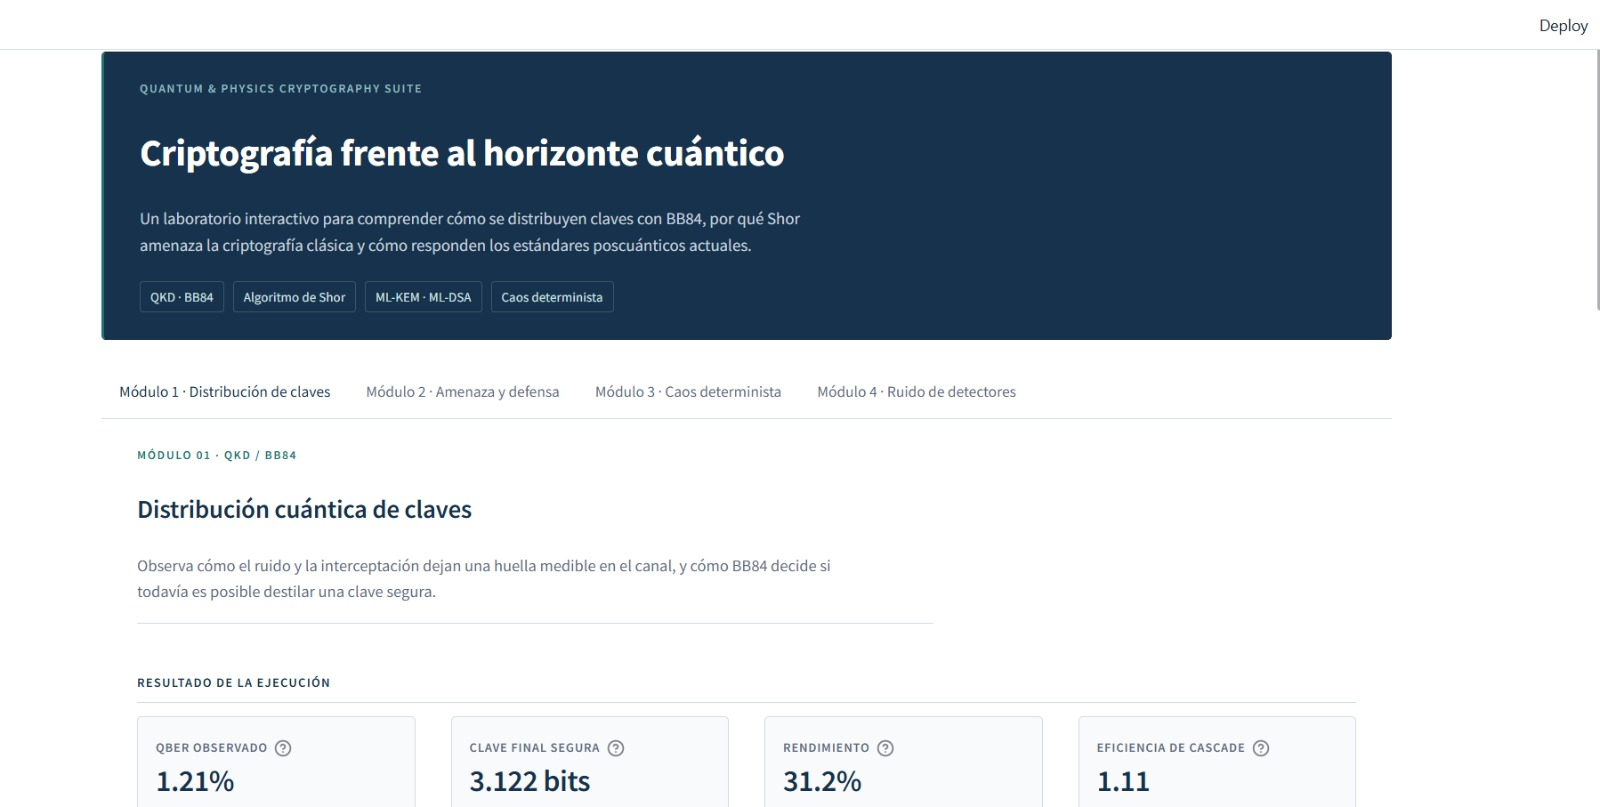
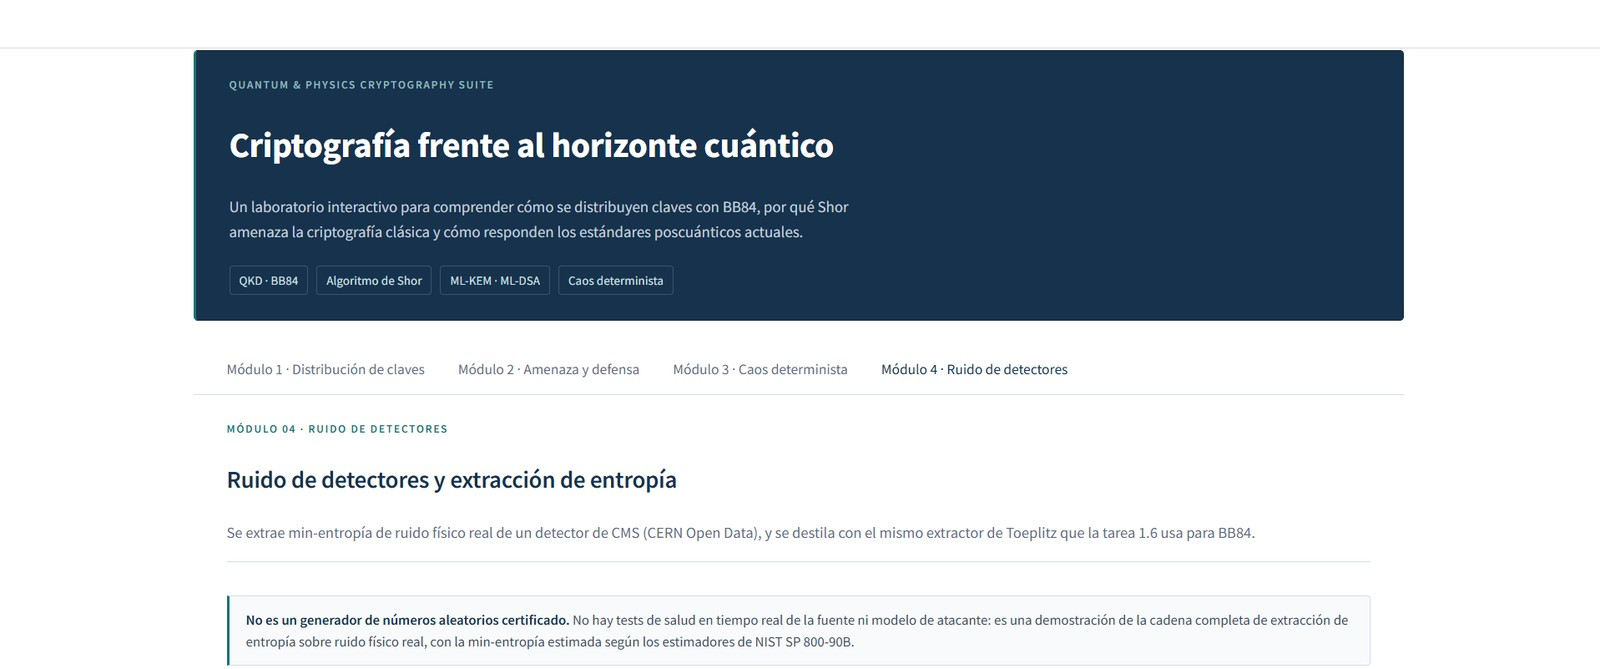
docs: arranque con imagen publicada, reparto real y guia de instalacion
README.md:
- Arranque rapido reescrito: el paso 3 pasa de `docker build` (10-17 min
  compilando liboqs) a `docker run ghcr.io/cmartinezmeco/qpcs:main`
  (segundos, tirando de la imagen que publica la CI en cada push a
  main). Las instrucciones de construir en local quedan en un
  subapartado "Si prefieres construirla tu", para quien quiera probar
  un cambio propio.
- Badge de licencia anadido, enlazado a LICENSE.
- Seccion "Contribuir" renombrada a "Como participar" y reescrita: dice
  con claridad que es un proyecto academico cerrado de tres personas,
  que no se buscan colaboradores externos, que las issues si se
  agradecen, y que los fallos de seguridad van por SECURITY.md y no por
  una issue publica.
- Tabla de reparto: fuera la columna de commits (un commit cuenta
  cuantas veces alguien guardo, no cuanto hizo, y queda obsoleta con el
  commit siguiente). Queda solo la columna de responsabilidad, con los
  tres nombres completos y su alias de GitHub al lado, y el comando
  `git shortlog -sn --no-merges` para quien quiera los numeros
  actualizados.
- Bloque de estructura actualizado: lista LICENSE, SECURITY.md y
  .mailmap, que antes no aparecian.

docs/INSTALL.md:
- Tras `docker compose up`, aviso en negrita de que hay que abrir
  localhost:8501 (no la URL 0.0.0.0:8501 que imprime Streamlit, que es
  la de dentro del contenedor) y captura del panel (docs/img/index.jpg).
- Añadido `docker compose down` para parar el servicio.
[…]

diff --git a/README.md b/README.md
@@ -8,6 +8,7 @@ Cuatro módulos de criptografía —cuántica, post-cuántica, caótica y entrop
 [![liboqs](https://img.shields.io/badge/liboqs-0.16.0-00A3E0)](https://openquantumsafe.org/)
 [![Tests](https://img.shields.io/badge/tests-378-0A9EDC?logo=pytest&logoColor=white)](tests/)
 [![Cobertura](https://img.shields.io/badge/cobertura-%E2%89%A585%25-brightgreen)](.github/workflows/ci.yml)
+[![Licencia](https://img.shields.io/badge/licencia-Apache%202.0-blue)](LICENSE)
 
 ![QBER frente a la fracción de fotones interceptados por Eve](docs/img/qber_vs_eve.png)
 
@@ -59,18 +60,36 @@ levantarla, están sin recortar en [`docs/limitaciones.md`](docs/limitaciones.md
 compilar `liboqs`, ni instalar nada más.
 
 ```bash
+docker run --rm -p 8501:8501 ghcr.io/cmartinezmeco/qpcs:main
+```
+
+Esa imagen la construye y publica la CI cada vez que algo entra en `main`, así que trae
+`liboqs` ya compilado. La descarga son unos cientos de megas y menos de un minuto.
+
+Cuando Streamlit imprima la línea `URL: http://0.0.0.0:8501`, abre
+[http://localhost:8501](http://localhost:8501). El panel tiene una pestaña por módulo.
+
+### Visualización
+
+La vista de la página, si se ha ejecutado correctamente, es la siguiente:
+
+![Vista del dashboard de QPCS](docs/img/index.jpg)
+
+### Si prefieres construirla tú
+
+Vale igual, y es lo que hay que hacer para probar un cambio propio:
+
+```bash
 git clone https://github.com/cmartinezmeco/qpcs.git
 cd qpcs
 docker build -t qpcs .
 docker run --rm -it -p 8501:8501 qpcs
 ```
 
-> La tercera orden **tarda entre 10 y 17 minutos la primera vez**: compila `liboqs` desde
+> `docker build` **tarda entre 10 y 17 minutos la primera vez**: compila `liboqs` desde
 > código fuente, que es una biblioteca en C sin *wheel*. No se ha colgado. Las siguientes
-> reconstrucciones reutilizan las capas y tardan segundos.
-
-Cuando Streamlit imprima la línea `URL: http://0.0.0.0:8501`, abre
-[http://localhost:8501](http://localhost:8501). El panel tiene una pestaña por módulo.
+> reconstrucciones reutilizan las capas y tardan segundos. Esa espera es justo la que se
+> ahorra quien usa la imagen publicada.
 
 Con Docker Compose, tres servicios sobre la misma imagen:
 
@@ -115,9 +134,14 @@ La mitad de la amenaza y la mitad de la defensa, en el mismo módulo. Shor facto
 estimación de fase: las fases medidas caen exactamente sobre los cuatro múltiplos de 1/r con
 r = 4, el orden real de 7 módulo 15.
 
-La defensa no es una simulación. ML-KEM-768 y ML-DSA-65 corren sobre `liboqs`, la misma
-implementación que se usa en producción, y cifran un mensaje real con el patrón híbrido
-KEM → HKDF-SHA256 → AES-256-GCM. El resumen de la migración en dos cifras:
+La defensa no es una simulación. ML-KEM-768 y ML-DSA-65 corren sobre `liboqs`, la
+implementación de referencia del Open Quantum Safe Project —no una reimplementación
+nuestra—, y cifran un mensaje real con el patrón híbrido KEM → HKDF-SHA256 → AES-256-GCM.
+Conviene decir lo que el propio proyecto advierte: `liboqs` está pensado para prototipado
+y evaluación y sus autores desaconsejan usarlo en producción. Aquí se usa exactamente para
+eso, y por eso la cifra de abajo es una medida y no una promesa.
+
+El resumen de la migración en dos cifras:
 
 - ML-KEM-768 genera un par de claves unas **11 000 veces más rápido** que RSA-3072
   (0,019 ms contra 212 ms) y desencapsula unas **120 veces más rápido** de lo que RSA descifra.
@@ -174,14 +198,17 @@ qpcs/
 ├── dashboard/          Panel de Streamlit, una pestaña por módulo
 ├── docs/
 │   ├── theory/         Los cuatro documentos de teoría
-│   ├── img/            Las 17 figuras publicadas
+│   ├── img/            Las 17 figuras publicadas y la captura del panel
 │   ├── limitaciones.md Las 28 limitaciones, con su porqué
-│   ├── decisiones.md   Lo que sigue abierto, con opciones y estado
+│   ├── decisiones.md   Las decisiones del proyecto, con sus opciones y lo acordado
 │   └── benchmark_pqc.json
 ├── data/               La muestra del detector y su procedencia
 ├── vectors/            keystream_v1.json · el vector de determinismo del Módulo 3
 ├── Dockerfile          El entorno reproducible (compila liboqs)
-└── docker-compose.yml  app · test · figuras
+├── docker-compose.yml  app · test · figuras
+├── .mailmap            Las identidades de git unificadas en tres personas
+├── LICENSE             Apache 2.0
+└── SECURITY.md         Dónde avisar de un fallo, y qué NO protege esto
 ```
 
 ---
@@ -230,24 +257,50 @@ la regla que la CI comprueba en cada *pull request*.
 
 ## Reparto y licencia
 
-Tres personas, medido sobre `main` con `git shortlog -sn --no-merges`, consolidando las dos
-identidades de git que usa cada uno:
+Tres personas. Lo que llevó cada una:
 
-| | Commits | Responsabilidad |
-|---|---:|---|
-| **Carlos Martínez-Meco López** ([@cmartinezmeco](https://github.com/cmartinezmeco)) | 31 | Infraestructura, CI, contenedores, datos, benchmarking, visualización e integración |
-| **Marco** ([@Marcociber](https://github.com/Marcociber)) | 16 | Reconciliación de claves, criptografía post-cuántica, análisis de entropía y seguridad |
-| **Gonzalo** ([@gonzaloz-hub](https://github.com/gonzaloz-hub)) | 10 | Física y modelado teórico: BB84, Shor, sistemas caóticos, ruido de detector |
+| | Responsabilidad |
+|---|---|
+| **Carlos Martínez-Meco López** ([@cmartinezmeco](https://github.com/cmartinezmeco)) | Infraestructura, CI, contenedores, datos, benchmarking, visualización e integración |
+| **Marco López Ballestrino** ([@Marcociber](https://github.com/Marcociber)) | Reconciliación de claves, criptografía post-cuántica, análisis de entropía y seguridad |
+| **Gonzalo Zaballos Galán** ([@gonzaloz-hub](https://github.com/gonzaloz-hub)) | Física y modelado teórico: BB84, Shor, sistemas caóticos, ruido de detector |
 
-Un commit no es una unidad de trabajo y `git log` no mide autoría de líneas. La medida completa,
-con sus advertencias, está en [`docs/decisiones.md`](docs/decisiones.md).
+Aquí había una columna con el número de *commits* de cada uno y ya no está. El motivo es que
+no medía lo que parecía medir: un *commit* cuenta cuántas veces alguien guardó, no cuánto
+hizo, y además cualquier cifra de esas caduca con el *commit* siguiente —incluido el que la
+corrigiera—. La columna de la derecha es la información útil, y esa no se queda vieja.
 
-**Licencia: pendiente.** Sin fichero `LICENSE`, por defecto nadie puede usar, copiar ni
-distribuir este código. La elección está abierta y documentada; se cierra en la tarea 4.17.
+Quien quiera los números los tiene a mano, y son más fiables recién sacados que copiados aquí:
+
+```bash
+git shortlog -sn --no-merges
+```
+
+El `.mailmap` de la raíz se encarga de que salgan tres personas y no las seis identidades de
+git que hemos ido usando entre el portátil, la web de GitHub y alguna máquina prestada.
+
+**Licencia: [Apache 2.0](LICENSE).** Puedes usar, copiar, modificar y redistribuir el código,
+también con fines comerciales, manteniendo el aviso de copyright y la nota de los cambios. Se
+eligió sobre MIT por la cláusula explícita de patentes, que en un repositorio de criptografía
+pesa más que en otros campos. Para citarlo, [`CITATION.cff`](CITATION.cff).
 
 ---
 
-## Contribuir
+## Cómo participar
+
+Este es un proyecto académico cerrado, de tres personas, y el código lo escribimos nosotros.
+No buscamos colaboradores externos, y eso no es desinterés: es que el reparto de autoría
+forma parte de lo que se evalúa.
+
+**Lo que sí agradecemos, y mucho, son las *issues*.** Si encuentras un error, una cifra que no
+cuadra, una explicación que se entiende mal o algo del arranque rápido que no funciona en tu
+máquina, [ábrela](https://github.com/cmartinezmeco/qpcs/issues). Es la forma más útil de
+echar una mano y se lee toda.
+
+Si has encontrado un fallo de seguridad, no lo pongas en una *issue*: mira
+[`SECURITY.md`](SECURITY.md), que explica por dónde avisar en privado.
+
+### Para nosotros tres
 
 Nunca se trabaja directamente sobre `main`. Una rama por tarea, un *pull request* por rama, y
 al menos una aprobación de otra persona antes de mergear. La CI tiene que estar en verde: no

diff --git a/docs/INSTALL.md b/docs/INSTALL.md
@@ -104,8 +104,14 @@ source ~/.bashrc
 ## Paso 7 — VS Code
 
 Abre el proyecto desde WSL con `code .` e instala **Python** y **Pylance** (Microsoft) como
-mínimo; **Docker**, **Jupyter** y **GitLens** ayudan. El fichero `.vscode/settings.json` está
-versionado y configura Black y el intérprete del `.venv` para todo el equipo.
+mínimo; **Docker**, **Jupyter** y **GitLens** ayudan.
+
+La configuración del editor no va versionada: cada uno usa el suyo y el
+`.vscode/` está en el `.gitignore`. Lo único que conviene apuntar a mano es el intérprete
+(**Python: Select Interpreter** → el `.venv` del proyecto) y el formateador (**Black**, con
+formato al guardar). Las reglas de verdad —longitud de línea, versión de Python, qué revisa
+cada herramienta— viven en `pyproject.toml`, que sí está versionado, así que son las mismas
+para todos con editor o sin él.
 
 ---
 
@@ -113,10 +119,10 @@ versionado y configura Black y el intérprete del `.venv` para todo el equipo.
 
 En el entorno local:
 
-Primero movernos a /qpcs
+Primero hay que situarse en la carpeta del proyecto:
 
 ```bash
-cd ~\qpcs
+cd ~/qpcs
 ```
 
 ```bash
@@ -151,15 +157,58 @@ pytest tests/ -m "not slow"
 
 ## Arrancar el contenedor
 
-### Comando docker para arrancar el contenedor
-
 ```bash
 docker compose up -d --build app
 ```
 
+La primera vez tarda un rato porque compila `liboqs`; las siguientes son segundos. El `-d`
+lo deja corriendo en segundo plano, así que la terminal vuelve enseguida y no hay nada más
+que esperar en ella.
+
+**Ahora abre [http://localhost:8501](http://localhost:8501) en el navegador.** Ahí está el
+panel. Si en vez de `-d` lo arrancas en primer plano, Streamlit imprime una línea
+`URL: http://0.0.0.0:8501`: es la dirección **desde dentro** del contenedor, y desde tu
+navegador no funciona. La buena es siempre `localhost:8501`.
+
+Esto es lo que tiene que salir:
+
+![El panel de QPCS recién arrancado, con la pestaña del Módulo 1 abierta](img/index.jpg)
+
+Una pestaña por módulo, arriba. Si ves esto, el entorno está montado y funcionando.
+
+Para pararlo:
+
+```bash
+docker compose down
+```
+
+Y si el navegador no carga nada, mira [«El puerto 8501 no responde»](#el-puerto-8501-no-responde)
+más abajo.
+
 ---
 
 ## Problemas conocidos
+
+### El puerto 8501 no responde
+
+El contenedor arrancó pero el navegador no carga nada en `localhost:8501`. Por orden de
+probabilidad:
+
+1. **Todavía está construyendo.** La primera vez compila `liboqs` y son entre diez y
+   diecisiete minutos. Míralo con `docker compose logs -f app`: hasta que no aparezca la
+   línea de Streamlit, no hay nada escuchando.
+2. **El contenedor se cayó.** `docker compose ps` te dice si sigue en pie. Si no está, el
+   motivo estará en `docker compose logs app`.
+3. **Ya tenías algo en el 8501.** Si `docker compose up` se quejó de que el puerto está
+   ocupado, cambia el lado izquierdo del mapeo en `docker-compose.yml` (por ejemplo
+   `"8502:8501"`) y entra por `localhost:8502`.
+4. **Estás en Windows sin la integración de WSL2.** Docker Desktop tiene que tener activada
+   la integración con tu distribución, o el puerto se publica en un sitio al que tu
+   navegador no llega.
+
+Lo que **no** es la causa: la línea `URL: http://0.0.0.0:8501` que imprime Streamlit. Esa
+dirección es la de dentro del contenedor y no se escribe en el navegador. La buena siempre es
+`localhost:8501`.
 
 ### `RuntimeError: No oqs shared libraries found`
 
